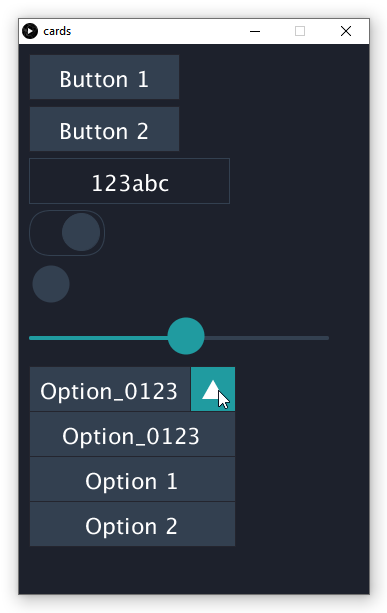
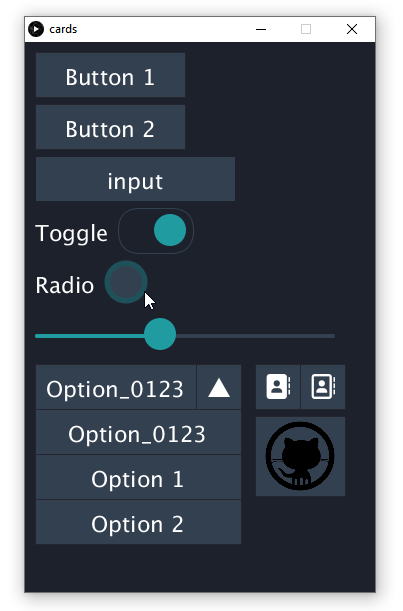
upd

diff --git a/README.md b/README.md
@@ -1,11 +1,30 @@
 # cards_ui
-Лёгкая библиотека для создания интерфейса на Processing (Java, Android). Доделано by AlexGyver, исходник заброшен:
+Лёгкая библиотека для создания интерфейса на Processing Java и Android. Исходник (заброшен):
 - Примеры: http://web.media.mit.edu/~cassiano/projects/cards_ui/index.html  
 - Репозиторий автора: https://github.com/lucascassiano/cards_ui  
+Я форкнул себе, доделал недоделанное, починил неработающее и добавил пару приколюх.
 
+## Демо
+```cpp
+  Button("Button 1", 10);
+  Button("Button 2", 10);
+  input.draw(10, 200);
+  t = Toggle("Toggle", t, 10);
+  r = RadioButton("Radio", r, 10);
+  s = Slider(s, 10);
+  String[] dropdown = {"Option_0123", "Option 1", "Option 2"};
+  drop.draw(dropdown, 10); 
+
+  IconButton("svg/solid/address-book", 230, uiGetStep(), 10);
+  IconButton("svg/regular/address-book", 230+s_height, uiGetStep(), 10);
+
+  PImage img;
+  img = loadImage("github-icon-256.png");  
+  ImageButton(img, 230, uiStep(), 90, 80, 5, false);
+```
 ![demo](/demo.png)
 
-# Возможности
+## Возможности
 - Подсказка
 - Кнопка
 - Кнопка с картинкой
@@ -18,7 +37,7 @@
 - Выпадающий список
 - FontAwesome иконка
 
-# Изменения
+## Изменения
 - Доделал DropDown
 - Добавил изменение размера шрифта
 - Добавил изменение общего масштаба интерфейса
@@ -27,7 +46,7 @@
 - Добавил IconButton
 - Обновил иконки до 6.0, покрасил все в белый
 
-# Дока
+## Дока
 ```cpp
 pressHandler();
 releaseHandler();
@@ -54,10 +73,10 @@ Button(String text, int x, int y, String t);
 Button(String text, int x, int y, int w, int h);
 Button(String text, int x, int y, int w, int h, String tooltip);
 
-ImageButton(PImage img, int x, int y, int w, int h);
-ImageButton(PImage img, int x, int y, int w, int h, int padding);
-ImageButton(PImage img, int x, int y, int w, int h, boolean select);
-ImageButton(PImage img, int x, int y, int w, int h, boolean select, int padding);
+ImageButton(String icon, int x, int y, int padding);
+ImageButton(String icon, int x, int y, int padding, boolean select);
+ImageButton(String icon, int x, int y, int w, int h, int padding);
+ImageButton(String icon, int x, int y, int w, int h, int padding, boolean select);
 
 IconButton(String icon, int x, int y, int padding);
 IconButton(String icon, int x, int y, int padding, boolean select);
@@ -80,10 +99,15 @@ Toggle(boolean value, int x);
 Toggle(boolean value, int x, int y);
 Toggle(boolean value, int x, int y, int w, int h);
 Toggle(String text, boolean value, int x, int y, int w, int h);
+Toggle(String text, boolean value, int x);
+Toggle(String text, boolean value, int x, int y);
 
 RadioButton(boolean value, int x);
 RadioButton(boolean value, int x, int y);
 RadioButton(boolean value, int x, int y, int w);
+RadioButton(String text, boolean value, int x);
+RadioButton(String text, boolean value, int x, int y);
+RadioButton(String text, boolean value, int x, int y, int w);
 
 Slider(float value, int x);
 Slider(float value, int x, int y);
